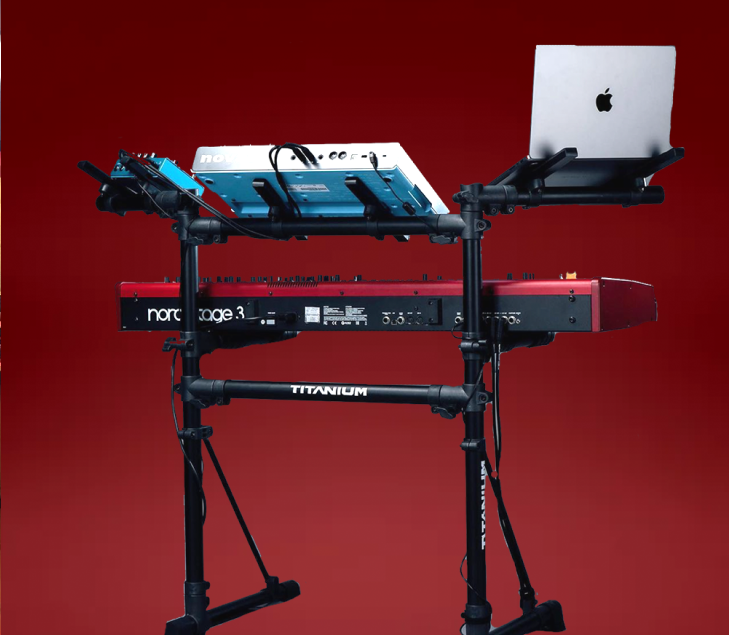
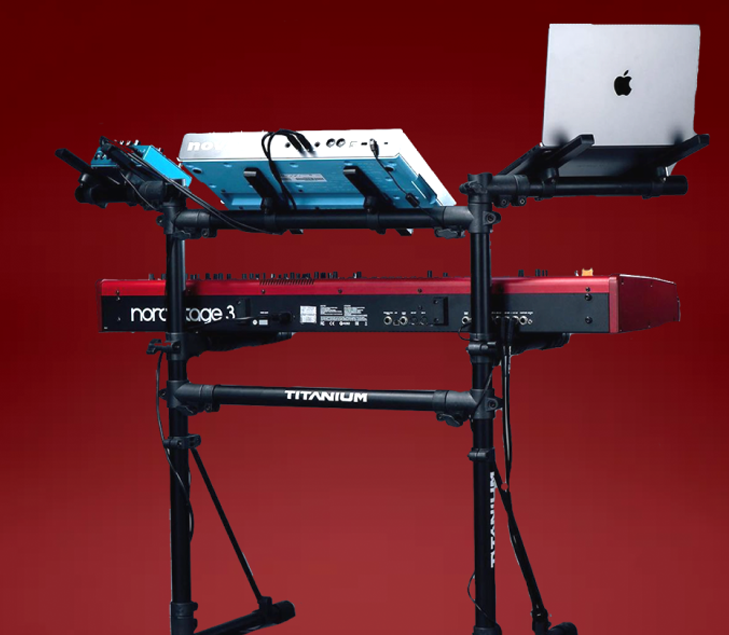
Criando Header, e reformulando o tamanho da imagem de amostra racks Estudio

Changed region(s): [[0.0604, 0.0299, 0.9959, 1.0], [0.8148, 0.1197, 0.8752, 0.1795]]

diff --git a/src/components/Header/styled.ts b/src/components/Header/styled.ts
@@ -1,0 +1,31 @@
+import styled from 'styled-components'
+
+export const HeaderUl = styled.ul`
+  display: flex;
+  justify-content: center;
+  align-items: center;
+  flex-grow: 1;
+  list-style-type: none;
+
+  li {
+    margin-right: 50px;
+    list-style-type: none;
+    font-size: 14px;
+    color: #8f8f8f;
+    margin: auto;
+  }
+`
+export const HeaderContainer = styled.div`
+  display: flex;
+  justify-content: space-between;
+  justify-content: center;
+  align-items: center;
+  width: 100%;
+  max-width: 1440px;
+  padding: 20px;
+  margin: 0 auto;
+
+  img {
+    max-width: 100px;
+  }
+`

diff --git a/src/components/RacksParaEstudio/index.tsx b/src/components/RacksParaEstudio/index.tsx
@@ -1,4 +1,8 @@
-import { ContainerRacksparaEstudio, ContainerYT245 } from './styles'
+import {
+  ContainerImg,
+  ContainerRacksparaEstudio,
+  ContainerYT245
+} from './styles'
 import Yt245 from '../../assets/images/Mask group.png'
 import NossosProdutos from '../NossosProdutos'
 
@@ -6,9 +10,9 @@ const RacksparaEstudio = () => {
   return (
     <>
       <ContainerRacksparaEstudio>
-        <div>
+        <ContainerImg>
           <img src={Yt245} alt="" srcSet="" />
-        </div>
+        </ContainerImg>
         <ContainerYT245>
           <div>
             <h4>Racks para Estudio</h4>

diff --git a/src/components/Header/index.tsx b/src/components/Header/index.tsx
@@ -1,0 +1,17 @@
+import { HeaderContainer, HeaderUl } from './styled'
+import logo from '../../assets/images/logo.png'
+
+export const Header = () => (
+  <HeaderContainer>
+    <img src={logo} alt="" srcSet="" />
+    <HeaderUl>
+      <li>HOME</li>
+      <li>CONHECA A TITANIUM</li>
+      <li>PRODUTOS</li>
+      <li>ONDE ENCONTRAR</li>
+      <li>CONTATO</li>
+    </HeaderUl>
+  </HeaderContainer>
+)
+
+export default Header

diff --git a/src/components/RacksParaEstudio/styles.tsx b/src/components/RacksParaEstudio/styles.tsx
@@ -5,8 +5,15 @@ export const ContainerRacksparaEstudio = styled.div`
   margin-top: 56px;
 
   img {
-    max-width: 100%;
+    width: 100%;
+
+    max-height: auto;
+    object-fit: cover;
   }
+`
+
+export const ContainerImg = styled.div`
+  width: 60%;
 `
 export const ContainerYT245 = styled.div`
   display: flex;

diff --git a/src/pages/Index/index.tsx b/src/pages/Index/index.tsx
@@ -1,9 +1,11 @@
 import Banner from '../../components/Banner'
+import { Header } from '../../components/Header'
 import Products from '../../components/Products/Products'
 
 const IndexPage = () => {
   return (
     <>
+      <Header />
       <Banner />
       <Products />
       <div>asd</div>
